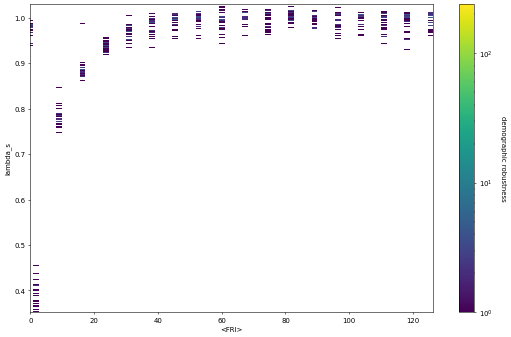
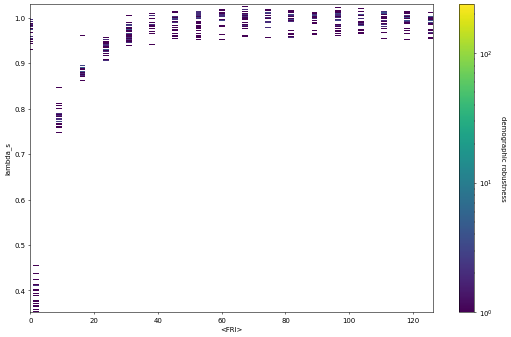
Update threshold
Results are more what I expect now

diff --git a/sensitivity/project.py b/sensitivity/project.py
@@ -180,9 +180,13 @@ def compute_lambda_s(job):
                 final_i = zero_i_min
 
                 t = census_t[burn_in_end_i:final_i]
+                if len(t) == 1:
+                    print('hey')
                 N_slice = N_t[burn_in_end_i:final_i]
                 lam_s_replica = np.product(N_slice[1:] / np.roll(N_slice, 1)[1:]) ** (1/len(t))
                 lam_s_extir.append(lam_s_replica)
+            if np.any(lam_s_extir == 1):
+                print('that shouldnt happen')
 
             # Now handle cases with no extirpation
             N_tot = np.delete(N_tot, extirpated_replicas, axis=0)
@@ -193,10 +197,45 @@ def compute_lambda_s(job):
             #lam_s_vec = np.sum(log_ratios, axis=1) / N_slice.shape[1]
             growthrates = N_slice[:,1:] / np.roll(N_slice, 1, 1)[:,1:]
             #lam_products = np.product(, axis=1)
-            lam_s_vec = np.product(growthrates, axis=1) ** (1/N_slice.shape[1]) 
+            lam_s_vec = np.product(growthrates, axis=1) ** (1/(N_slice.shape[1]-1)) 
+            if np.any(lam_s_vec == 1):
+                print('that also shouldnt happen')
 
             # Compute final lambda value
             lam_s_all = np.concatenate((lam_s_vec, lam_s_extir))
+
+            #N_tot = np.array(job.data[f"N_tot/{b}"])
+            #nonzero_counts = np.count_nonzero(N_tot, axis=1)  # Count nonzero timesteps
+            #extirpated_replicas = np.nonzero(nonzero_counts < job.sp.t_final)[0]  # Find extirpated replicas
+
+            ## Create a mask where N_tot > 0 (avoiding inf values)
+            #valid_mask = N_tot > 0
+
+            ## Indices for slicing
+            #start_i = burn_in_end_i  # Start after burn-in
+            #final_i = N_tot.shape[1]  # Last valid timestep
+
+            ## Apply mask and slice
+            #masked_N_tot = np.where(valid_mask, N_tot, np.nan)  # Replace zeros with NaN (ignored in np.nanprod)
+            #N_slice = masked_N_tot[:, start_i:final_i]  # Select valid timesteps
+
+            ## Compute number of valid timesteps for each simulation
+            #valid_timesteps = np.sum(valid_mask[:, start_i:final_i], axis=1) - 1  # Subtract 1 to avoid zero exponent
+
+            ## Compute per-replica growth rates (ignore NaNs)
+            #growthrates = N_slice[:, 1:] / np.roll(N_slice, 1, axis=1)[:, 1:]
+
+            ## Avoid zero exponent by setting invalid cases to NaN
+            #valid_exponent_mask = valid_timesteps > 0
+            #lam_s_all = np.full(N_tot.shape[0], np.nan)  # Default to NaN
+            #lam_s_all[valid_exponent_mask] = np.nanprod(growthrates[valid_exponent_mask], axis=1) ** (1 / valid_timesteps[valid_exponent_mask])
+            #if np.any(np.sum(valid_mask[:, start_i:final_i], axis=1) == 1):
+            #    print('thats not good')
+            if np.any(np.isnan(lam_s_all)):
+                print('theres nans')
+            if np.any(lam_s_all == 1):
+                print('theres exact 1s')
+
             if len(lam_s_all) != 0:
                 job.data[f'lambda_s/{b}'] = np.mean(lam_s_all) 
             else:
@@ -635,7 +674,7 @@ class Phase:
             metric_exp_dist[metric_exp_dist < 0] = 0.0
             if np.any(metric_exp_dist < 0): sys.exit(f"metric_expect is negative ({self.metric_expect}), exiting!")
         elif self.metric == 'lambda_s':
-            threshold = 0.95
+            threshold = 0.975
         '''Still calling this metric_expect for now but should change this to metric_quantity or something'''
         self.metric_expect = np.count_nonzero(metric_exp_dist >= threshold) / self.ncell_tot
 

diff --git a/sensitivity/makefig.py b/sensitivity/makefig.py
@@ -224,7 +224,7 @@ set_globals(results_pre)
 
 # Plot <metric> distribution outline
 tau_max = max(tau_edges)
-bin_step = 0.01
+bin_step = 0.005
 bin_edges = np.concatenate(([0], np.arange(bin_step/2, 1+bin_step, bin_step)))
 color = 'limegreen'
 metric_interp = spl(tau_flat[tau_flat < tau_max])
@@ -241,14 +241,15 @@ if metric == 'P_s':
     axes[0,0].set_xlim(-0.01, xmax)
 else:
     mlab = "$<\lambda_s>$"
-    xticks = [0.85, 0.9, 0.95, 1]
-    axes[0,0].set_xlim(0.83,1.01)
+    xticks = [0.9, 0.95, 1]
+    #xticks = np.round(np.arange(0.9, 1.02, 0.02), 3)
+    axes[0,0].set_xlim(0.89,1.0+bin_step)
     axes[0,0].set_xlabel(rf"average stochastic growth rate {mlab}")
 # Fill in area gte thresh
 if metric == 'P_s':
     thresh = 0.5
 elif metric == 'lambda_s':
-    thresh = 0.95
+    thresh = 0.975
 bin_i = np.argmin(np.abs(bin_edges - thresh))
 axes[0,0].hist(metric_interp[metric_interp >= bin_edges[bin_i]], bins=bin_edges, color=color, 
                histtype='bar', alpha=0.6);

diff --git a/sensitivity/phase.py b/sensitivity/phase.py
@@ -65,7 +65,7 @@ num_computations_finished = 0
 with tqdm(total=total_computations) as pbar:
     for metric in metrics:
         constants.update({'metric': metric})
-        constants.update({'overwrite_metrics': True}) #Set True to overwrite metrics (only once per metric)
+        constants.update({'overwrite_metrics': False}) #Set True to overwrite metrics (only once per metric)
         constants.update({'overwrite_scaleparams': False}) 
         for (tauc_method_i, tauc_method) in enumerate(tauc_methods):
             if tauc_method_i > 0:
